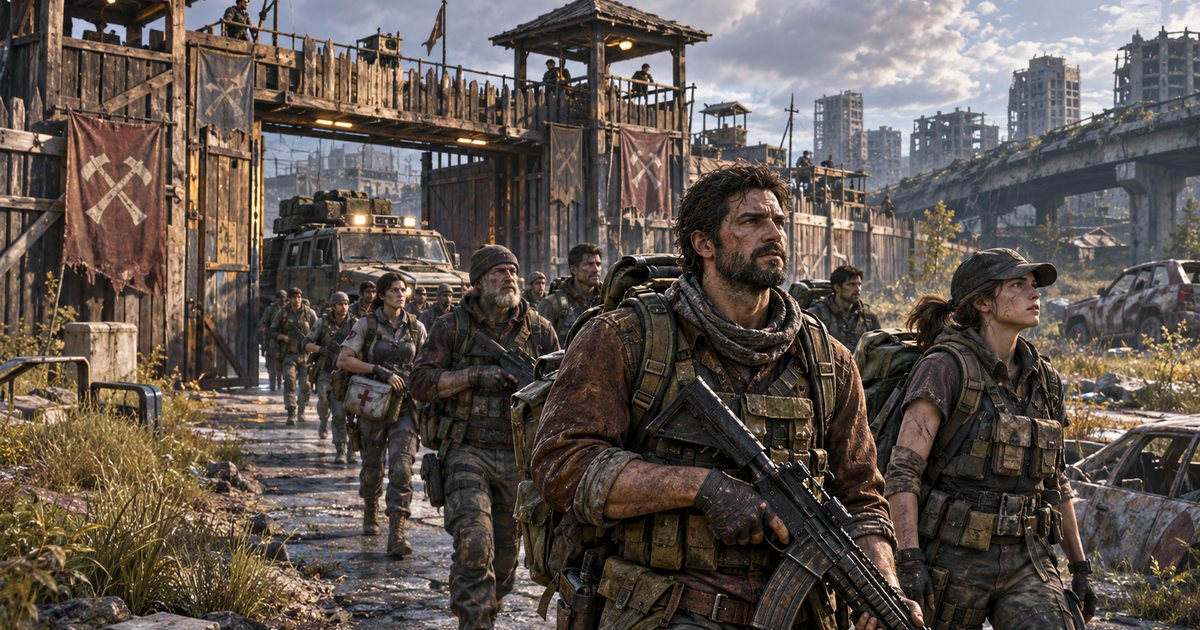
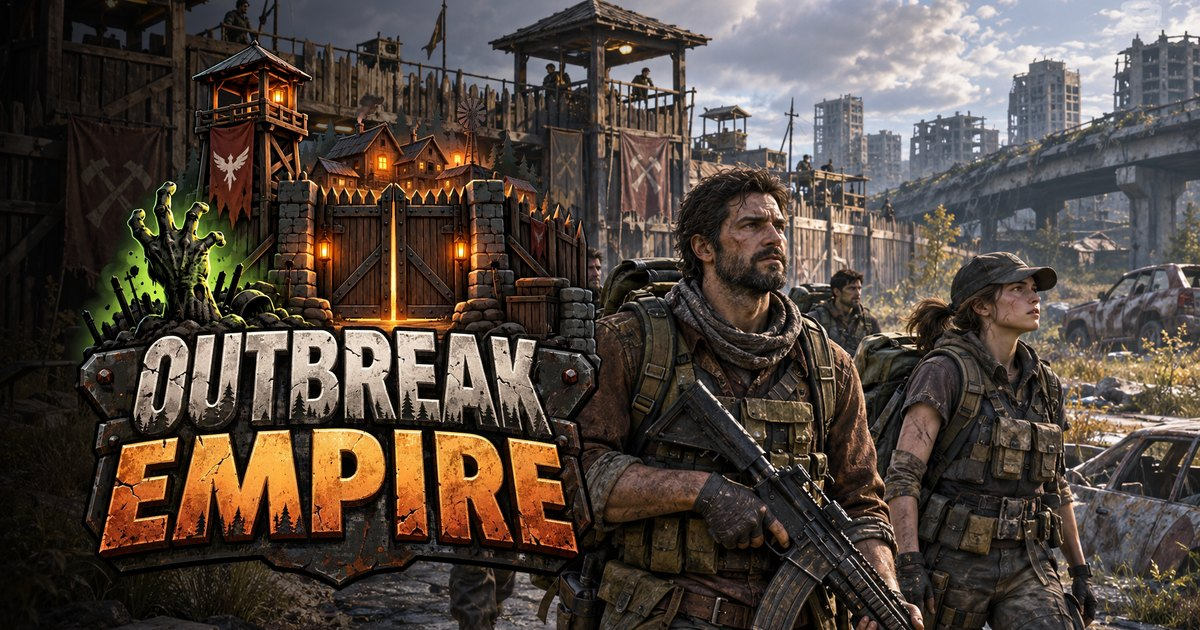
הלוגו של בעל הפרויקט באתר: רקע שקוף (כלי חיתוך tools/build_logo.py), לוגו גדול במסך הפתיחה כשהתוכן בצד שמאל במחשב כדי שהדמות תישאר גלויה, לוגו המילים בסרגל העליון ובתחתית, תמונת שיתוף ואייקון לטלפון עם הלוגו. הצבעים עברו מזהב לכתום-חלודה של הלוגו, והכותרות לגופן עבה וצר שמתאים לו. נבדק בדפדפן ב-1440

diff --git a/style.css b/style.css
@@ -1,13 +1,13 @@
 :root {
   --bg: #0b0b0c;
   --bg2: #111113;
-  --line: rgba(232, 196, 120, .18);
+  --line: rgba(230, 140, 60, .2);
   --text: #e9e3d5;
   --muted: #a49e91;
-  --gold: #d6a548;
-  --gold-hi: #f6dc97;
-  --metal: linear-gradient(180deg, #fbe7ad 0%, #e2b45a 38%, #a8701f 52%, #e7bb62 70%, #f8e2a4 100%);
-  --serif: "Cinzel", "Trajan Pro", Georgia, serif;
+  --gold: #e8892c;
+  --gold-hi: #ffc27a;
+  --metal: linear-gradient(180deg, #ffd9a0 0%, #f3a44a 40%, #c5631c 56%, #ea8f34 74%, #ffcc8a 100%);
+  --serif: "Barlow Condensed", "Arial Narrow", sans-serif;
   --cond: "Barlow Condensed", "Arial Narrow", sans-serif;
   --sans: "Barlow", system-ui, -apple-system, "Segoe UI", sans-serif;
   --ease: cubic-bezier(.2, .7, .2, 1);
@@ -29,9 +29,9 @@ h1, h2, h3, p { margin: 0; }
 
 /* ---------- type ---------- */
 .title {
-  font-family: var(--serif); font-weight: 700; text-transform: uppercase;
-  letter-spacing: .04em; line-height: 1.12;
-  font-size: clamp(30px, 4.6vw, 54px);
+  font-family: var(--serif); font-weight: 800; text-transform: uppercase;
+  letter-spacing: .015em; line-height: 1.02;
+  font-size: clamp(38px, 5.6vw, 68px);
   background: var(--metal); -webkit-background-clip: text; background-clip: text; color: transparent;
 }
 .rule {
@@ -46,40 +46,27 @@ h1, h2, h3, p { margin: 0; }
   border: 1px solid var(--gold); transform: translate(-50%, -50%) rotate(45deg);
 }
 
-/* ---------- logo lockup ---------- */
-.logo { display: inline-flex; flex-direction: column; align-items: center; line-height: 1; font-family: var(--serif); text-transform: uppercase; }
-.logo__a {
-  font-weight: 900; letter-spacing: .02em;
-  background: var(--metal); -webkit-background-clip: text; background-clip: text; color: transparent;
-}
-.logo__b {
-  display: flex; align-items: center; gap: .6em; width: 100%;
-  font-weight: 700; letter-spacing: .5em; padding-left: .5em; color: var(--text);
-}
-.logo__b::before, .logo__b::after { content: ""; flex: 1; height: 1px; background: linear-gradient(90deg, transparent, var(--gold)); }
-.logo__b::after { background: linear-gradient(270deg, transparent, var(--gold)); }
-.logo--xl { filter: drop-shadow(0 4px 24px rgba(0,0,0,.85)) drop-shadow(0 1px 1px rgba(0,0,0,.9)); }
-.logo--xl .logo__a { font-size: clamp(48px, 10.5vw, 148px); }
-.logo--xl .logo__b { font-size: clamp(15px, 2.6vw, 34px); margin-top: .35em; }
-.logo--md .logo__a { font-size: 36px; }
-.logo--md .logo__b { font-size: 11px; margin-top: 6px; }
-.logo--sm .logo__a { font-size: 21px; }
-.logo--sm .logo__b { font-size: 7px; margin-top: 3px; }
+/* ---------- logo ---------- */
+.nav__logo img { height: 46px; width: auto; transition: height .3s; }
+.nav.is-solid .nav__logo img { height: 40px; }
+.hero__logo { margin: 0; line-height: 0; }
+.hero__logo img { width: auto; height: min(50vh, 520px); max-width: 82vw; object-fit: contain; filter: drop-shadow(0 10px 40px rgba(0,0,0,.85)); }
+.foot__logo { width: 170px; height: auto; }
 
 /* ---------- buttons ---------- */
 .btn {
   position: relative; display: inline-flex; align-items: center; justify-content: center;
-  font: 700 15px/1 var(--serif); text-transform: uppercase; letter-spacing: .12em;
-  color: #1a1206; padding: 16px 34px;
-  background: linear-gradient(180deg, #f7dc93 0%, #d9a548 45%, #b47b27 100%);
-  border: 1px solid #f8e3a8;
-  box-shadow: 0 0 0 1px #5a3a10, 0 10px 30px rgba(214,165,72,.25), inset 0 1px 0 rgba(255,255,255,.5);
+  font: 800 18px/1 var(--serif); text-transform: uppercase; letter-spacing: .08em;
+  color: #1e0d02; padding: 16px 34px;
+  background: linear-gradient(180deg, #ffc57e 0%, #f0943a 45%, #c35d18 100%);
+  border: 1px solid #ffd3a0;
+  box-shadow: 0 0 0 1px #4a2206, 0 10px 30px rgba(232,137,44,.28), inset 0 1px 0 rgba(255,255,255,.45);
   transition: filter .2s, box-shadow .2s, transform .2s;
 }
-.btn::after { content: ""; position: absolute; inset: 3px; border: 1px solid rgba(90,58,16,.45); pointer-events: none; }
-.btn:hover { filter: brightness(1.08); transform: translateY(-1px); box-shadow: 0 0 0 1px #5a3a10, 0 14px 40px rgba(214,165,72,.42), inset 0 1px 0 rgba(255,255,255,.5); }
-.btn--lg { font-size: clamp(15px, 1.6vw, 18px); padding: 20px 48px; }
-.btn--sm { font-size: 12px; padding: 11px 18px; }
+.btn::after { content: ""; position: absolute; inset: 3px; border: 1px solid rgba(74,34,6,.45); pointer-events: none; }
+.btn:hover { filter: brightness(1.08); transform: translateY(-1px); box-shadow: 0 0 0 1px #4a2206, 0 14px 40px rgba(232,137,44,.45), inset 0 1px 0 rgba(255,255,255,.45); }
+.btn--lg { font-size: clamp(19px, 1.9vw, 23px); padding: 19px 52px; }
+.btn--sm { font-size: 15px; padding: 10px 18px; }
 .btn--sm::after { inset: 2px; }
 
 /* ---------- icons ---------- */
@@ -156,7 +143,7 @@ h1, h2, h3, p { margin: 0; }
 
 /* ---------- world ---------- */
 .world { position: relative; padding: clamp(90px, 14vw, 170px) 20px; text-align: center; overflow: hidden; }
-.world::before { content: ""; position: absolute; left: 50%; top: 50%; width: 900px; height: 600px; transform: translate(-50%, -50%); background: radial-gradient(closest-side, rgba(214,165,72,.08), transparent); pointer-events: none; }
+.world::before { content: ""; position: absolute; left: 50%; top: 50%; width: 900px; height: 600px; transform: translate(-50%, -50%); background: radial-gradient(closest-side, rgba(232,137,44,.08), transparent); pointer-events: none; }
 .world__in { position: relative; max-width: 720px; margin: 0 auto; }
 .world p { color: #c8c1b2; font-size: clamp(17px, 1.6vw, 19px); }
 .world .world__end { margin-top: 22px; font: 600 clamp(16px, 1.6vw, 19px)/1.4 var(--cond); text-transform: uppercase; letter-spacing: .2em; color: var(--gold); }
@@ -179,7 +166,7 @@ h1, h2, h3, p { margin: 0; }
 .tabs { display: grid; grid-template-columns: repeat(4, 1fr); background: #0e0e10; }
 .tab {
   position: relative; padding: 24px 8px 26px; border-right: 1px solid var(--line);
-  font: 700 clamp(13px, 1.5vw, 17px)/1 var(--serif); text-transform: uppercase; letter-spacing: .14em; color: #8f897d;
+  font: 800 clamp(16px, 1.8vw, 21px)/1 var(--serif); text-transform: uppercase; letter-spacing: .1em; color: #8f897d;
   transition: color .25s, background .25s;
 }
 .tab:last-child { border-right: 0; }
@@ -267,4 +254,17 @@ h1, h2, h3, p { margin: 0; }
 @media (prefers-reduced-motion: reduce) {
   *, *::before, *::after { animation: none !important; transition: none !important; }
   html { scroll-behavior: auto; }
+}
+
+/* Desktop hero: content on the left, the character stays clear on the right. */
+@media (min-width: 1000px) {
+  .hero { justify-content: flex-start; align-items: center; }
+  .hero__media img { object-position: 75% 30%; }
+  .hero::before {
+    background:
+      linear-gradient(90deg, rgba(8,8,9,.88) 0%, rgba(8,8,9,.6) 30%, rgba(8,8,9,0) 58%),
+      linear-gradient(180deg, rgba(0,0,0,.4) 0%, rgba(0,0,0,0) 22%, rgba(0,0,0,0) 72%, var(--bg) 100%);
+  }
+  .hero__in { align-items: center; width: auto; max-width: 620px; margin-left: clamp(24px, 6vw, 120px); padding: 90px 0 40px; }
+  .hero__logo img { height: min(54vh, 540px); }
 }

diff --git a/index.html b/index.html
@@ -27,7 +27,7 @@
 
 <link rel="preconnect" href="https://fonts.googleapis.com">
 <link rel="preconnect" href="https://fonts.gstatic.com" crossorigin>
-<link href="https://fonts.googleapis.com/css2?family=Cinzel:wght@600;700;900&family=Barlow+Condensed:wght@500;600&family=Barlow:wght@400;500&display=swap" rel="stylesheet">
+<link href="https://fonts.googleapis.com/css2?family=Barlow+Condensed:wght@500;600;700;800&family=Barlow:wght@400;500&display=swap" rel="stylesheet">
 <link rel="preload" as="image" href="images/hero-800.webp" imagesrcset="images/hero-800.webp 800w, images/hero-1600.webp 1600w" imagesizes="100vw">
 <link rel="stylesheet" href="style.css">
 </head>
@@ -35,7 +35,7 @@
 
 <header class="nav" id="top">
   <a class="nav__logo" href="#top" aria-label="Outbreak Empire, back to top">
-    <span class="logo logo--sm"><span class="logo__a">Outbreak</span><span class="logo__b">Empire</span></span>
+    <img src="images/logo-word-360.webp" alt="Outbreak Empire">
   </a>
   <nav class="nav__links" aria-label="Main">
     <a href="#world">The World</a>
@@ -62,7 +62,7 @@
     </div>
     <canvas class="embers" aria-hidden="true"></canvas>
     <div class="hero__in">
-      <h1 class="logo logo--xl"><span class="logo__a">Outbreak</span><span class="logo__b">Empire</span></h1>
+      <h1 class="hero__logo"><img src="images/logo-640.webp" srcset="images/logo-640.webp 640w, images/logo-1000.webp 1000w" sizes="(min-width: 900px) 500px, 80vw" alt="Outbreak Empire" fetchpriority="high"></h1>
       <p class="hero__line">Eighteen months after the Fall. Build what's left.</p>
       <a class="btn btn--lg" href="https://docs.google.com/forms/d/e/1FAIpQLSfH-3bDS25boa_nsmfyrVO0cmh-lTgv2Yjuh53AL0fX4bEYbQ/viewform" target="_blank" rel="noopener">Join the waitlist</a>
       <div class="stores" aria-label="Platforms">
@@ -195,7 +195,7 @@
 
 <footer class="foot">
   <div class="foot__in">
-    <span class="logo logo--md"><span class="logo__a">Outbreak</span><span class="logo__b">Empire</span></span>
+    <img class="foot__logo" src="images/logo-300.webp" alt="Outbreak Empire" loading="lazy">
     <p>Coming soon to Android and iOS.</p>
     <p class="foot__small">Images shown are concept art and do not represent final in-game visuals.<br>&copy; 2026 Outbreak Empire. All rights reserved.</p>
   </div>

diff --git a/tools/build_logo.py b/tools/build_logo.py
@@ -1,0 +1,78 @@
+"""Cuts the owner's logo (images/src/logo.jpg, on a flat near-black background)
+out to a transparent WebP: images/logo-{300,640,1000}.webp.
+
+Background pixels connected to the image border are keyed out with a soft edge
+(alpha grows with distance from the background colour), colours unpremultiplied.
+Usage: python -I tools/build_logo.py
+"""
+from pathlib import Path
+import numpy as np
+from PIL import Image, ImageDraw
+
+ROOT = Path(__file__).resolve().parent.parent
+SRC = ROOT / "images" / "src" / "logo.jpg"
+OUT = ROOT / "images"
+BG = np.array([17, 17, 17], dtype=np.float32)
+TOL, SOFT_LO, SOFT_HI = 16, 4, 16
+
+im = Image.open(SRC).convert("RGB")
+a = np.asarray(im).astype(np.float32)
+d = np.abs(a - BG).max(axis=2)
+
+near = Image.fromarray(np.where(d <= TOL, 255, 0).astype(np.uint8), "L").copy()
+w, h = near.size
+for x in range(0, w, 4):
+    for y in (0, h - 1):
+        if near.getpixel((x, y)) == 255: ImageDraw.floodfill(near, (x, y), 128)
+for y in range(0, h, 4):
+    for x in (0, w - 1):
+        if near.getpixel((x, y)) == 255: ImageDraw.floodfill(near, (x, y), 128)
+region = np.asarray(near) == 128
+
+alpha = np.ones_like(d)
+alpha[region] = np.clip((d[region] - SOFT_LO) / (SOFT_HI - SOFT_LO), 0, 1)
+safe = np.maximum(alpha, 1e-3)[..., None]
+rgb = np.clip((a - BG * (1 - alpha[..., None])) / safe, 0, 255)
+rgba = np.dstack([rgb, alpha * 255]).astype(np.uint8)
+out = Image.fromarray(rgba, "RGBA")
+bbox = Image.fromarray((alpha > .5).astype(np.uint8) * 255).getbbox()
+pad = 6
+out = out.crop((max(0, bbox[0] - pad), max(0, bbox[1] - pad), min(w, bbox[2] + pad), min(h, bbox[3] + pad)))
+print("cropped", out.size)
+for width in (300, 640, 1000):
+    r = out.resize((width, round(out.height * width / out.width)), Image.LANCZOS) if width < out.width else out
+    r.save(OUT / f"logo-{width}.webp", quality=88, alpha_quality=90, method=6)
+    print(width, r.size, (OUT / f"logo-{width}.webp").stat().st_size)
+
+# Wordmark only (the plate), for the nav bar.
+W, H = out.size
+plate = out.crop((round(W * .03), round(H * .49), round(W * .97), round(H * .95)))
+plate = plate.crop(Image.fromarray((np.asarray(plate)[..., 3] > 128).astype(np.uint8) * 255).getbbox())
+pw = 360
+plate.resize((pw, round(plate.height * pw / plate.width)), Image.LANCZOS).save(OUT / "logo-word-360.webp", quality=88, alpha_quality=90, method=6)
+print("word", plate.size)
+
+# Share image (1200x630): hero art, dark left side, logo on the left.
+srcs = [p for p in (ROOT / "images" / "src").glob("hero.*")]
+if srcs:
+    hero = Image.open(srcs[0]).convert("RGB")
+    tw, th = 1200, 630
+    s = max(tw / hero.width, th / hero.height)
+    hero = hero.resize((round(hero.width * s), round(hero.height * s)), Image.LANCZOS)
+    left = round((hero.width - tw) * .75); top = round((hero.height - th) * .3)
+    card = hero.crop((left, top, left + tw, top + th)).convert("RGBA")
+    shade = np.zeros((th, tw, 4), np.uint8)
+    ramp = np.clip(1 - np.arange(tw) / (tw * .62), 0, 1) * 230
+    shade[..., 3] = ramp[None, :].astype(np.uint8)
+    card.alpha_composite(Image.fromarray(shade, "RGBA"))
+    lh = 560
+    lg = out.resize((round(out.width * lh / out.height), lh), Image.LANCZOS)
+    card.alpha_composite(lg, (70, (th - lh) // 2))
+    card.convert("RGB").save(OUT / "og.jpg", quality=86)
+    print("og ok")
+
+# Home-screen icon: the logo on the site background.
+ic = Image.new("RGBA", (180, 180), (17, 17, 17, 255))
+li = out.resize((round(out.width * 168 / out.height), 168), Image.LANCZOS)
+ic.alpha_composite(li, ((180 - li.width) // 2, 6))
+ic.convert("RGB").save(OUT / "apple-touch-icon.png")

diff --git a/README.md b/README.md
@@ -17,3 +17,8 @@ The canonical, Open Graph and Twitter URLs in `index.html` point to
 If the repo name or domain changes, search-and-replace that address.
 
 Icons: Simple Icons (CC0).
+
+## Logo
+
+Put the logo (flat near-black background) at `images/src/logo.jpg`, then run `python -I tools/build_logo.py` **after** `build_images.py`.
+It writes the transparent `logo-*.webp`, `logo-word-360.webp`, and overwrites `og.jpg` and `apple-touch-icon.png` with logo versions.
